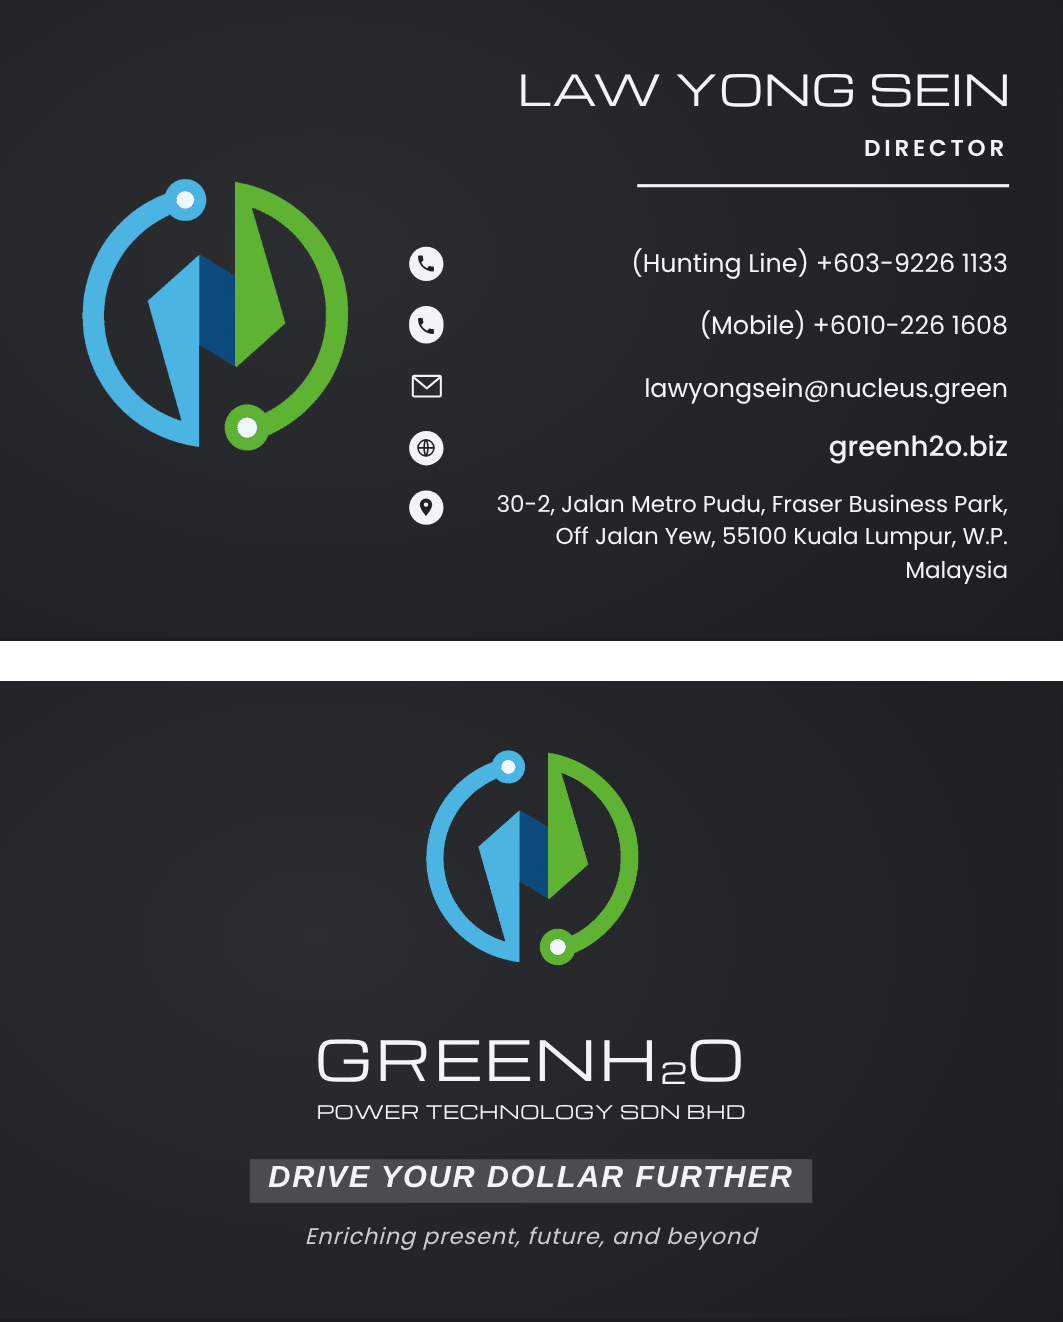
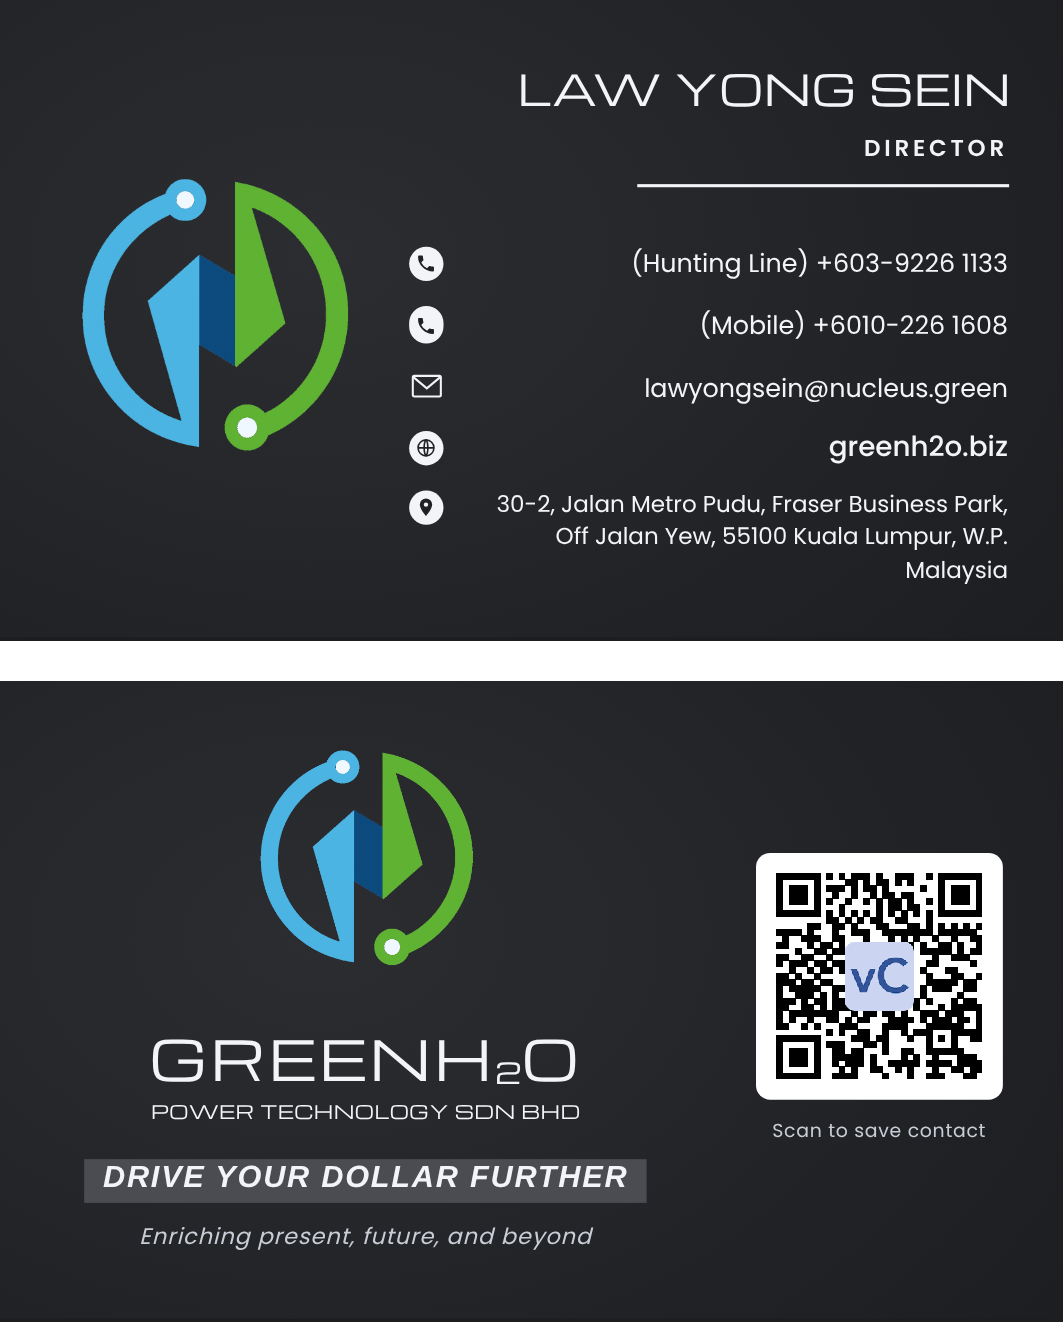
Law Yong Sein's card: add vCard QR to back, shift content left
Claude-Session: https://claude.ai/code/session_01J8VhJZJX27hmnaajm3CCtV

Changed region(s): [[0.0621, 0.6203, 0.9624, 0.9614], [0.2484, 0.5582, 0.6209, 0.7443]]

diff --git a/business-card/card-law-yong-sein.html b/business-card/card-law-yong-sein.html
@@ -70,6 +70,19 @@
     font-family: 'Poppins', sans-serif; font-style: italic; font-size: 1.9mm; letter-spacing: .08mm;
     color: #c9ced6;
   }
+
+  /* Back with QR: content column shifts left, QR on the right */
+  .back.with-qr .logo { left: 31mm; }
+  .back.with-qr .stack { right: 28mm; }
+  .back.with-qr .qr {
+    position: absolute; right: 5mm; top: 14.3mm; width: 21mm; height: 21mm;
+    background: #fff; border-radius: 1.2mm; padding: 1.1mm;
+  }
+  .back.with-qr .qr img { display: block; width: 100%; height: 100%; image-rendering: pixelated; }
+  .back.with-qr .qr-cap {
+    position: absolute; right: 5mm; top: 37mm; width: 21mm; text-align: center;
+    font-family: 'Poppins', sans-serif; font-size: 1.6mm; letter-spacing: .06mm; color: #c9ced6;
+  }
 </style>
 </head>
 <body>
@@ -106,8 +119,10 @@
 </section>
 
 <!-- BACK -->
-<section class="card back">
+<section class="card back with-qr">
   <img class="logo" src="logo-dark.png" alt="GreenH2O logo">
+  <div class="qr"><img src="qr-law-yong-sein-vcard.png" alt="vCard QR code"></div>
+  <div class="qr-cap">Scan to save contact</div>
   <div class="stack">
   <div class="lockup">
     <div class="brand">GREENH<sub>2</sub>O</div>
